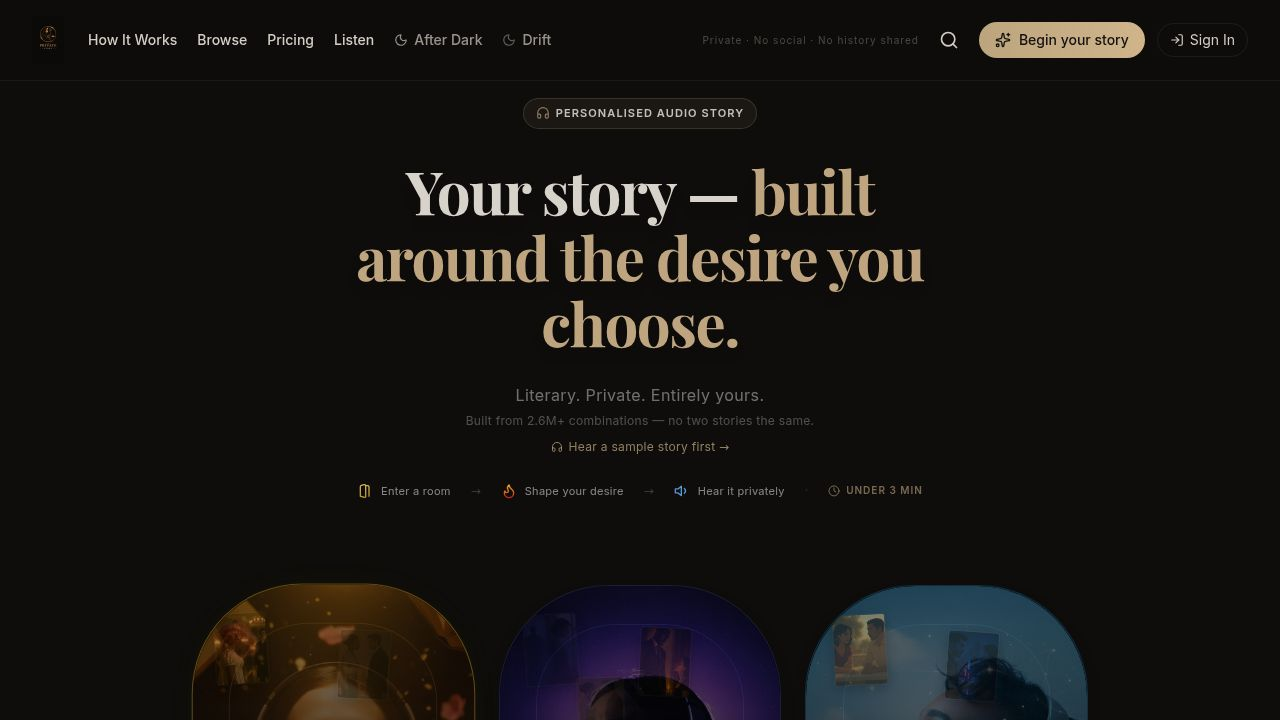
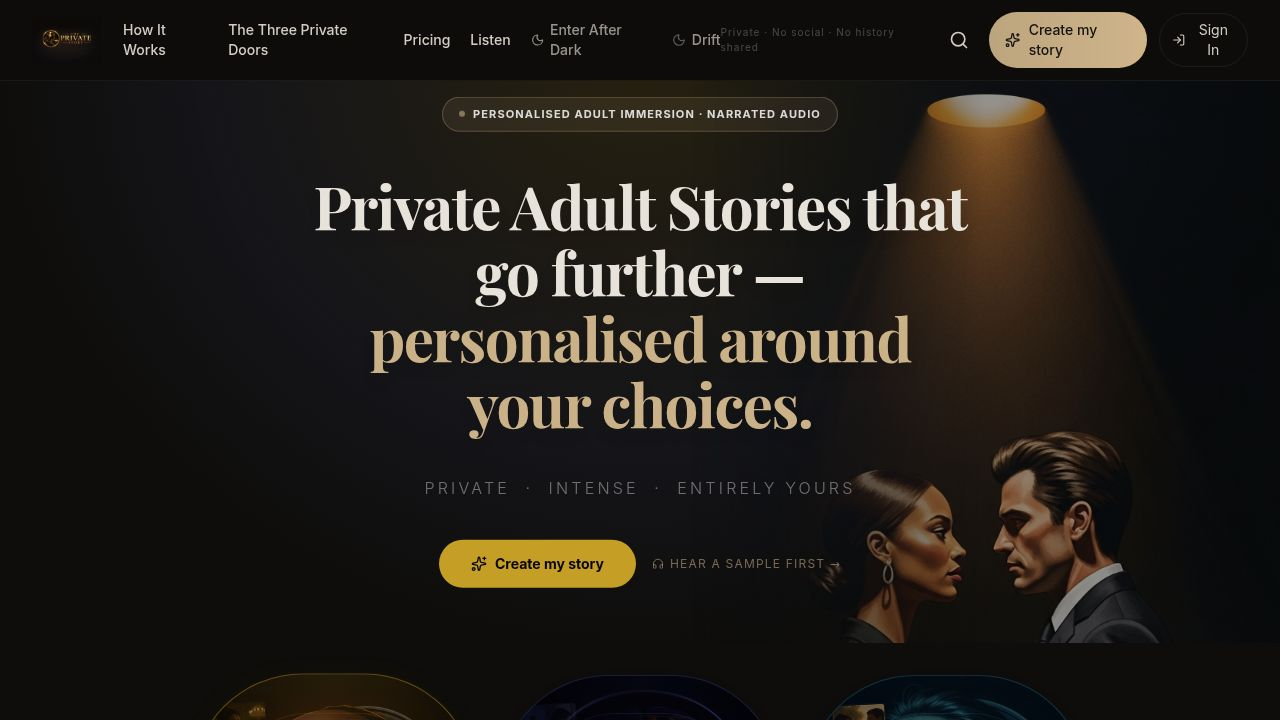
Update website visuals and user experience across multiple pages
Update UI components, pages, and assets including larger logos, new hero images, adjusted opacity for backgrounds, and removed outdated pricing information.

Replit-Commit-Author: Agent
Replit-Commit-Session-Id: ab2e3776-fbe5-4fdc-a87c-7dcafaaee93a
Replit-Commit-Checkpoint-Type: full_checkpoint
Replit-Commit-Event-Id: 2f656f91-5e59-4647-b757-fa815fdd442f
Replit-Commit-Screenshot-Url: https://storage.googleapis.com/screenshot-production-us-central1/5e7606d7-ad46-420d-b8cd-9fb7055150fc/ab2e3776-fbe5-4fdc-a87c-7dcafaaee93a/oUiGbDy
Replit-Helium-Checkpoint-Created: true

diff --git a/artifacts/custom-audio-stories/src/pages/Pricing.tsx b/artifacts/custom-audio-stories/src/pages/Pricing.tsx
@@ -803,55 +803,6 @@ export default function Pricing() {
       </section>
 
       {/* ------------------------------------------------------------------ */}
-      {/* Add-on stories                                                       */}
-      {/* ------------------------------------------------------------------ */}
-      <section className="py-12 px-4 md:px-8 max-w-4xl mx-auto w-full">
-        <div className="rounded-3xl border border-border/20 bg-card/20 p-10 md:p-12 flex flex-col md:flex-row gap-10 items-center md:items-start">
-          <div className="flex-shrink-0 w-14 h-14 rounded-full bg-primary/10 border border-primary/20 flex items-center justify-center">
-            <Plus className="w-6 h-6 text-primary/70" />
-          </div>
-          <div className="flex-1 text-center md:text-left">
-            <p className="text-xs font-bold uppercase tracking-widest text-primary/70 mb-2">Additional stories</p>
-            <h2 className="font-display text-2xl md:text-3xl font-bold text-foreground mb-3 leading-tight">
-              Continue your experience,
-              <br className="hidden md:block" /> whenever you want.
-            </h2>
-            <p className="text-muted-foreground/80 leading-relaxed mb-4 max-w-md mx-auto md:mx-0">
-              Additional personalised stories are available for £3.99 each — whenever the moment calls for it, without changing your plan.
-            </p>
-            <p className="text-sm text-muted-foreground/80 italic">
-              "Add another story without any compromise."
-            </p>
-          </div>
-          <div className="flex-shrink-0 text-center">
-            <div className="rounded-2xl border border-primary/20 bg-primary/8 px-8 py-6 flex flex-col items-center gap-4">
-              <div>
-                <p className="font-display text-4xl font-bold text-primary mb-0.5">£3.99</p>
-                <p className="text-xs text-muted-foreground/80">per additional story</p>
-              </div>
-              {isActiveSub ? (
-                <button
-                  onClick={() => startCheckout("addon")}
-                  disabled={loadingPlan !== null}
-                  className="w-full py-2.5 px-5 rounded-full bg-primary/10 border border-primary/30 text-primary text-sm font-semibold hover:bg-primary/20 hover:border-primary/50 transition-all disabled:opacity-60 disabled:cursor-not-allowed"
-                >
-                  {loadingPlan === "addon" ? (
-                    <span className="flex items-center justify-center gap-2"><Loader2 className="w-4 h-4 animate-spin" /> Starting…</span>
-                  ) : (
-                    "Add a story"
-                  )}
-                </button>
-              ) : (
-                <p className="text-xs text-muted-foreground/80 text-center max-w-[140px] leading-relaxed">
-                  Available to active subscribers only
-                </p>
-              )}
-            </div>
-          </div>
-        </div>
-      </section>
-
-      {/* ------------------------------------------------------------------ */}
       {/* Trust bar                                                            */}
       {/* ------------------------------------------------------------------ */}
       <TrustBar />

diff --git a/artifacts/custom-audio-stories/src/pages/AfterDark.tsx b/artifacts/custom-audio-stories/src/pages/AfterDark.tsx
@@ -1598,11 +1598,15 @@ export default function AfterDark() {
                               scenario={scenario}
                               selected={selectedScenario?.id === scenario.id}
                               locked={isLockedByPairing}
-                              onClick={() =>
-                                setSelectedScenario(
-                                  selectedScenario?.id === scenario.id ? null : scenario
-                                )
-                              }
+                              onClick={() => {
+                                if (isLockedByPairing) return;
+                                const next = selectedScenario?.id === scenario.id ? null : scenario;
+                                setSelectedScenario(next);
+                                if (next) {
+                                  window.scrollTo({ top: 0 });
+                                  setPhase("casting");
+                                }
+                              }}
                             />
                           );
                         })}
@@ -1613,32 +1617,6 @@ export default function AfterDark() {
               })}
             </div>
 
-            {/* Continue CTA */}
-            <div className="sticky bottom-6">
-              <button
-                onClick={() => {
-                  if (selectedScenario) {
-                    window.scrollTo({ top: 0 });
-                    setPhase("casting");
-                  }
-                }}
-                disabled={!selectedScenario}
-                className={`w-full py-4 rounded-2xl font-bold text-base flex items-center justify-center gap-2 transition-all text-white ${
-                  selectedScenario ? "hover:-translate-y-0.5" : "opacity-35 cursor-not-allowed"
-                }`}
-                style={
-                  selectedScenario
-                    ? {
-                        background: "linear-gradient(135deg, #c0392b, #7f1d1d)",
-                        boxShadow: "0 0 32px rgba(192,57,43,0.28)",
-                      }
-                    : { background: "#1a1a1a" }
-                }
-              >
-                <Sparkles className="w-5 h-5" />
-                {selectedScenario ? `Continue with "${selectedScenario.label}"` : "Choose a fantasy above"}
-              </button>
-            </div>
           </motion.div>
         )}
 
@@ -1708,13 +1686,13 @@ export default function AfterDark() {
                 src={`${import.meta.env.BASE_URL}images/afterdark-hero-woman.png?v=1`}
                 alt=""
                 aria-hidden="true"
-                className="w-full h-full object-cover object-top opacity-30"
+                className="w-full h-full object-cover object-top opacity-50"
                 style={{ objectPosition: "center top" }}
               />
             </div>
             <div
               className="absolute inset-0"
-              style={{ background: "radial-gradient(ellipse at 50% 0%, #1a050580 0%, #0a020288 55%, #000 100%)" }}
+              style={{ background: "radial-gradient(ellipse at 50% 0%, #1a050555 0%, #0a020266 55%, #000e 100%)" }}
             />
             <div className="absolute inset-0" style={{
               background: "linear-gradient(0deg, #000 0%, #000a 30%, transparent 70%)",

diff --git a/artifacts/custom-audio-stories/src/pages/Home.tsx b/artifacts/custom-audio-stories/src/pages/Home.tsx
@@ -838,12 +838,12 @@ export default function Home() {
         {/* ── Woman portrait ── */}
         <img
           aria-hidden="true"
-          src={`${import.meta.env.BASE_URL}images/home-hero-woman.png?v=5`}
+          src={`${import.meta.env.BASE_URL}images/home-hero-woman.png?v=6`}
           alt=""
-          className="block absolute right-0 top-0 h-full w-full sm:w-[46%] object-cover object-top pointer-events-none select-none opacity-[0.22] sm:opacity-[0.55]"
+          className="block absolute right-0 top-0 h-full w-full sm:w-[48%] object-cover object-top pointer-events-none select-none opacity-[0.38] sm:opacity-[0.82]"
           style={{
-            WebkitMaskImage: "linear-gradient(to right, transparent 0%, rgba(0,0,0,0.5) 20%, black 50%)",
-            maskImage: "linear-gradient(to right, transparent 0%, rgba(0,0,0,0.5) 20%, black 50%)",
+            WebkitMaskImage: "linear-gradient(to right, transparent 0%, rgba(0,0,0,0.4) 18%, black 42%)",
+            maskImage: "linear-gradient(to right, transparent 0%, rgba(0,0,0,0.4) 18%, black 42%)",
           }}
         />
 
@@ -1309,21 +1309,6 @@ export default function Home() {
                 </button>
               </div>
 
-              {/* Add-on — active subscribers only */}
-              {isPaid && (
-                <div className="rounded-2xl border border-border/20 bg-background/20 p-6 flex flex-col justify-between">
-                  <div>
-                  <p className="text-[10px] font-bold uppercase tracking-widest text-muted-foreground/80 mb-3">Additional stories</p>
-                    <div className="flex items-end gap-1.5 mb-1">
-                      <span className="font-display text-3xl font-bold text-foreground">£3.99</span>
-                      <span className="text-muted-foreground/80 text-sm mb-0.5">/ story</span>
-                    </div>
-                    <p className="text-xs text-muted-foreground/80 leading-relaxed mt-3">
-                      Top up whenever you want — without changing your plan. Each story generated, narrated, and private to you.
-                    </p>
-                  </div>
-                </div>
-              )}
             </div>
 
             {checkoutError && (

diff --git a/artifacts/custom-audio-stories/src/pages/HowItWorks.tsx b/artifacts/custom-audio-stories/src/pages/HowItWorks.tsx
@@ -596,27 +596,6 @@ export default function HowItWorks() {
               </Link>
             </div>
 
-            {/* Add-on */}
-            <div className="rounded-2xl border border-border/20 bg-background/20 p-6 flex flex-col justify-between">
-              <div>
-                <p className="text-[10px] font-bold uppercase tracking-widest text-muted-foreground/80 mb-3">
-                  Additional stories
-                </p>
-                <div className="flex items-end gap-1.5 mb-1">
-                  <span className="font-display text-3xl font-bold text-foreground">£3.99</span>
-                  <span className="text-muted-foreground/80 text-sm mb-0.5">/ story</span>
-                </div>
-                <p className="text-xs text-muted-foreground/70 leading-relaxed mt-3">
-                  Add more whenever you want — without changing your plan. Written, narrated, and private to you.
-                </p>
-              </div>
-              <Link
-                href="/pricing"
-                className="mt-6 flex items-center justify-center gap-2 w-full py-2.5 rounded-full border border-border/40 bg-background/40 text-sm font-semibold text-foreground/80 hover:border-primary/40 hover:text-primary transition-all"
-              >
-                See all options
-              </Link>
-            </div>
           </div>
 
           <div className="text-center">

diff --git a/artifacts/custom-audio-stories/src/components/CastingRoom.tsx b/artifacts/custom-audio-stories/src/components/CastingRoom.tsx
@@ -1736,25 +1736,6 @@ export function CastingRoom({ onComplete, onSkip, afterDark = false, bedtime = f
               </div>
             )}
 
-            <p className="text-xs font-semibold uppercase tracking-widest text-primary/60 mb-3">
-              Atmosphere <span className="font-normal text-muted-foreground normal-case tracking-normal">(optional)</span>
-            </p>
-            <div className="flex flex-wrap gap-2">
-              {ATMOSPHERES.map(atm => (
-                <button
-                  key={atm}
-                  type="button"
-                  onClick={() => update("atmosphere", data.atmosphere === atm ? "" : atm)}
-                  className={`px-4 py-2 rounded-full text-sm font-medium border transition-all ${
-                    data.atmosphere === atm
-                      ? "bg-primary text-primary-foreground border-primary shadow-glow"
-                      : "border-border/40 text-muted-foreground hover:border-primary/30 hover:text-foreground"
-                  }`}
-                >
-                  {atm}
-                </button>
-              ))}
-            </div>
           </motion.div>
         )}
 

diff --git a/artifacts/custom-audio-stories/src/pages/Listen.tsx b/artifacts/custom-audio-stories/src/pages/Listen.tsx
@@ -37,6 +37,23 @@ export default function Listen() {
         </Link>
       </div>
 
+      {/* Hero image */}
+      <div className="relative w-full overflow-hidden" style={{ height: "clamp(200px, 44vw, 360px)" }}>
+        <img
+          src={`${API_BASE}/images/listen-hero-woman.png?v=1`}
+          alt=""
+          aria-hidden="true"
+          className="w-full h-full object-cover object-top select-none pointer-events-none"
+          style={{ opacity: 0.82 }}
+        />
+        <div className="absolute inset-0" style={{
+          background: "linear-gradient(0deg, var(--background) 0%, transparent 40%)",
+        }} />
+        <div className="absolute inset-0" style={{
+          background: "linear-gradient(180deg, var(--background) 0%, transparent 28%)",
+        }} />
+      </div>
+
       <div className="flex-1 flex flex-col items-center px-6 pb-12 max-w-lg mx-auto w-full">
 
         {/* Intro */}

diff --git a/artifacts/custom-audio-stories/src/components/ThreeDoors.tsx b/artifacts/custom-audio-stories/src/components/ThreeDoors.tsx
@@ -48,7 +48,7 @@ const DOORS = [
     room: "The Story Room",
     name: "After Dark",
     shortName: "After Dark",
-    tagline: "Further. Unrestrained. Entirely yours.",
+    tagline: "Explicit. Nothing implied. Nothing held back.",
     cta: "Enter After Dark",
     href: "/after-dark",
     Icon: Moon,
@@ -70,8 +70,8 @@ const DOORS = [
     knobHover: "rgba(123,143,255,0.58)",
     underLight: "rgba(123,143,255,0.09)",
     teasers: [
-      { text: "Further than the others.", blur: false },
-      { text: "Only you will know what's behind this door.", blur: false },
+      { text: "Every detail written. Nothing implied.", blur: false },
+      { text: "This room has no limits.", blur: false },
       { text: "Nothing held back.", blur: true },
     ],
     moodImages: [

diff --git a/artifacts/custom-audio-stories/src/components/Layout.tsx b/artifacts/custom-audio-stories/src/components/Layout.tsx
@@ -144,7 +144,7 @@ function Navbar({ streakDays }: { streakDays: number }) {
         <div className="max-w-7xl mx-auto px-4 sm:px-6 lg:px-8 h-20 flex items-center justify-between">
           <div className="flex items-center gap-6">
             <Link href="/" className="flex items-center">
-              <Logo height={46} />
+              <Logo height={64} />
             </Link>
 
             <div className="hidden md:flex items-center gap-5">
@@ -445,7 +445,7 @@ function Footer() {
 
         <div className="border-t border-border/20 pt-8 flex flex-col items-center text-center">
           <div className="mb-3">
-            <LogoFull height={110} className="mx-auto" />
+            <LogoFull height={140} className="mx-auto" />
           </div>
           <p className="text-muted-foreground text-xs max-w-sm mb-5">
             Stories written for the parts of you that nobody else gets to know.

diff --git a/artifacts/custom-audio-stories/src/pages/Create.tsx b/artifacts/custom-audio-stories/src/pages/Create.tsx
@@ -1895,13 +1895,13 @@ export default function Create() {
                   src={`${import.meta.env.BASE_URL}images/paywall-romance-bg.png?v=1`}
                   alt=""
                   aria-hidden="true"
-                  className="w-full h-full object-cover object-center opacity-20"
+                  className="w-full h-full object-cover object-center opacity-45"
                 />
               </div>
               <div
                 className="absolute inset-0"
                 style={{
-                  background: "radial-gradient(ellipse at 60% 20%, #2a1a0a80 0%, #0d0a0888 55%, #000 100%)",
+                  background: "radial-gradient(ellipse at 60% 20%, #2a1a0a55 0%, #0d0a0860 55%, #000e 100%)",
                 }}
               />
               <div className="absolute inset-0" style={{

diff --git a/artifacts/custom-audio-stories/src/pages/Drift.tsx b/artifacts/custom-audio-stories/src/pages/Drift.tsx
@@ -739,12 +739,12 @@ export default function Drift() {
                 src={`${import.meta.env.BASE_URL}images/paywall-drift-bg.png?v=1`}
                 alt=""
                 aria-hidden="true"
-                className="w-full h-full object-cover object-center opacity-25"
+                className="w-full h-full object-cover object-center opacity-50"
               />
             </div>
             <div
               className="absolute inset-0"
-              style={{ background: "radial-gradient(ellipse at 50% 0%, #08051480 0%, #03021088 55%, #000 100%)" }}
+              style={{ background: "radial-gradient(ellipse at 50% 0%, #08051450 0%, #03021060 55%, #000e 100%)" }}
             />
             <div className="absolute inset-0" style={{
               background: "linear-gradient(0deg, #000 0%, #000a 30%, transparent 70%)",

diff --git a/artifacts/custom-audio-stories/src/components/AgeGate.tsx b/artifacts/custom-audio-stories/src/components/AgeGate.tsx
@@ -41,7 +41,7 @@ export function AgeGate({ onConfirmed }: AgeGateProps) {
         transition={{ delay: 0.05, type: "spring", stiffness: 260, damping: 22 }}
         className="max-w-sm w-full rounded-3xl bg-background border border-border/40 p-8 shadow-2xl text-center"
       >
-        <LogoFull height={100} className="mx-auto mb-5" />
+        <LogoFull height={120} className="mx-auto mb-5" />
         <p className="text-xs font-semibold uppercase tracking-widest text-primary/60 mb-4">The Private Story</p>
 
         <h1 className="font-display text-2xl font-bold text-foreground mb-3">

diff --git a/artifacts/custom-audio-stories/src/components/AuthModal.tsx b/artifacts/custom-audio-stories/src/components/AuthModal.tsx
@@ -170,7 +170,7 @@ export function AuthModal({ onSuccess }: AuthModalProps) {
         <div className="p-8">
           {/* Logo */}
           <div className="flex flex-col items-center mb-6 gap-1.5">
-            <LogoFull height={100} className="mx-auto" />
+            <LogoFull height={120} className="mx-auto" />
             <p className="text-xs text-muted-foreground/40 tracking-widest">
               Private · No social · No history shared
             </p>